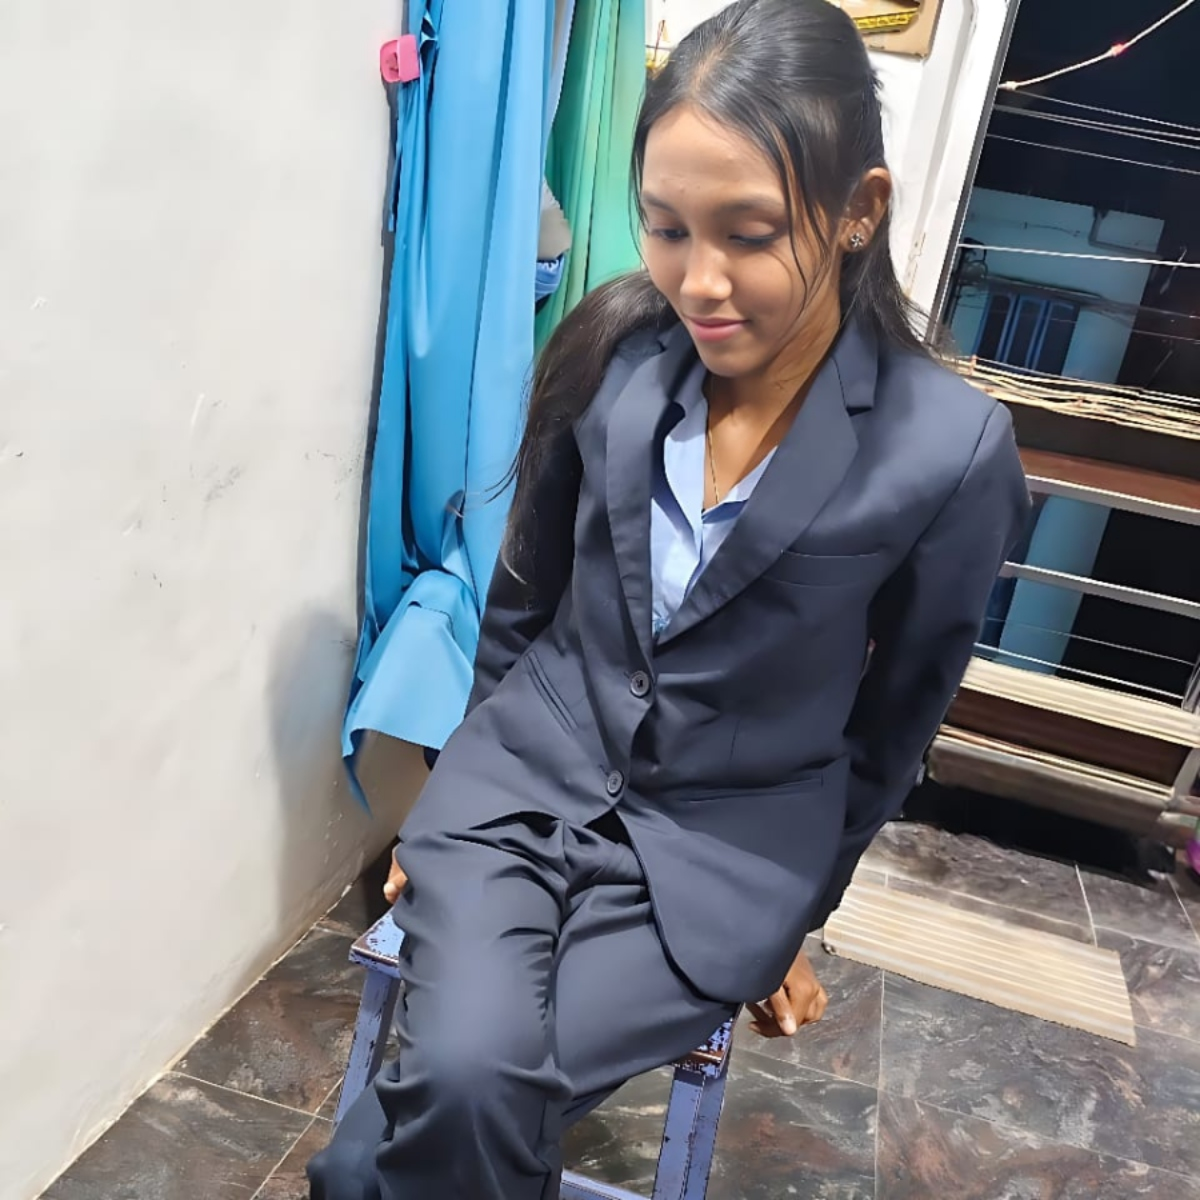
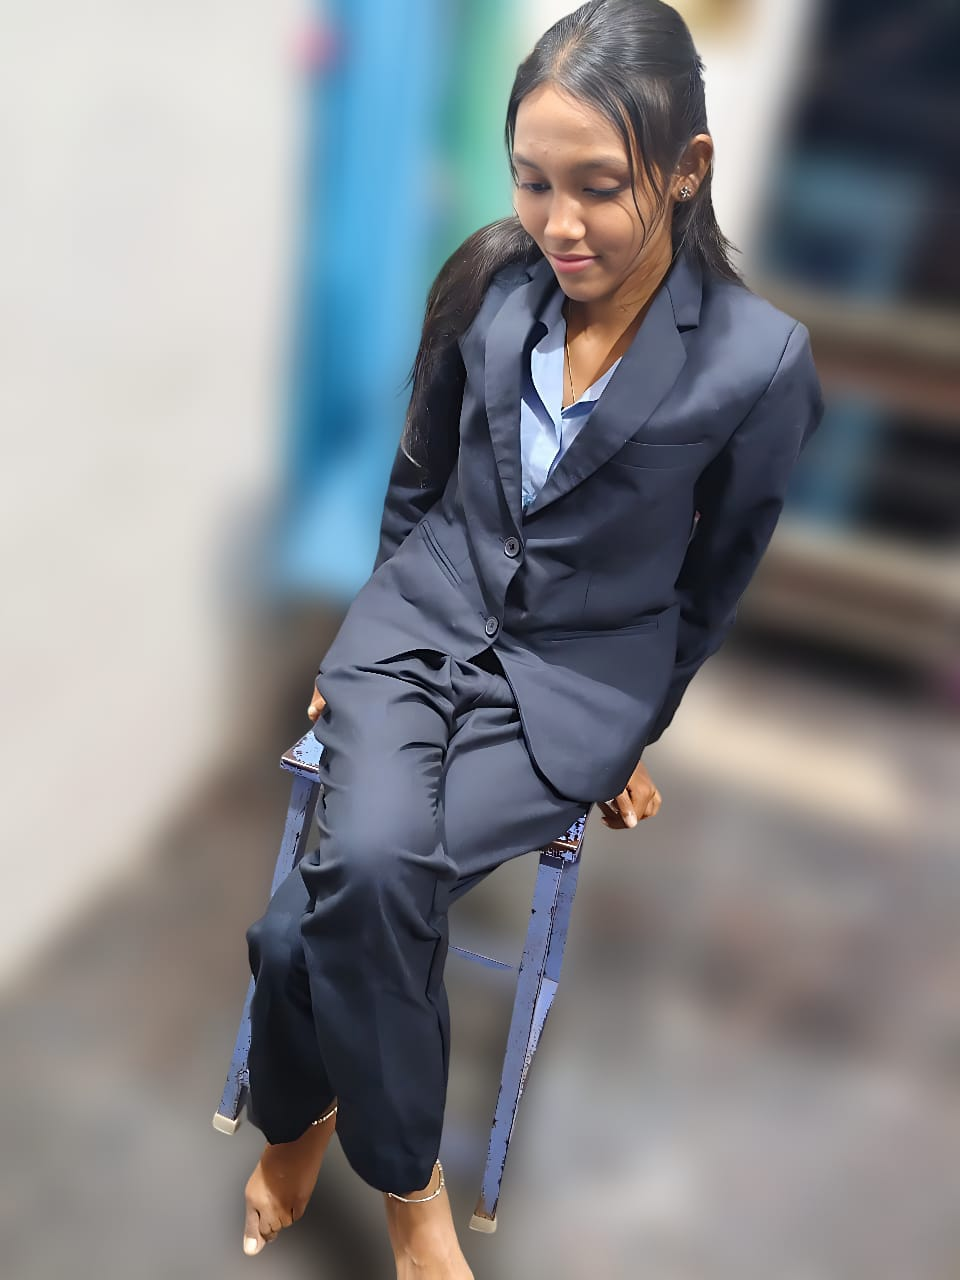
profile changes

diff --git a/src/components/Hero.tsx b/src/components/Hero.tsx
@@ -28,7 +28,12 @@ const Typing = ({ texts = roles, speed = 120, pause = 1500 }: { texts?: string[]
     return () => clearTimeout(timer);
   }, [display, forward, index, pause, speed, texts]);
 
-  return <span className="text-gradient font-semibold">{display}<span className="animate-pulse">|</span></span>;
+  return (
+    <span className="text-gradient font-semibold">
+      {display}
+      <span className="animate-pulse">|</span>
+    </span>
+  );
 };
 
 const Hero = () => {
@@ -46,11 +51,14 @@ const Hero = () => {
           </p>
 
           <h1 className="text-4xl sm:text-5xl md:text-6xl font-bold mb-4">
-            Hi, I’m <span className="text-gradient bg-clip-text text-transparent bg-gradient-to-r from-blue-500 via-cyan-400 to-purple-500">Mukhashree</span>
+            Hi, I’m{' '}
+            <span className="text-gradient bg-clip-text text-transparent bg-gradient-to-r from-blue-500 via-cyan-400 to-purple-500">
+              Mukhashree
+            </span>
           </h1>
 
-          <p className="text-lg sm:text-xl text-gray-700 dark:text-gray-300 mb-6">
-            Focused on delivering high-quality web solutions, automating workflows, and designing seamless user experiences, while pursuing my interest in the Japanese language and culture.
+          <p className="text-lg sm:text-xl text-gray-700 dark:text-gray-300 mb-6 leading-relaxed">
+            Focused on delivering high-quality web solutions, automating workflows, and designing seamless user experiences — while exploring the beauty of the Japanese language and culture.
           </p>
 
           <div className="mb-6 text-xl">
@@ -58,14 +66,26 @@ const Hero = () => {
           </div>
 
           <div className="flex flex-wrap gap-3 justify-center md:justify-start">
-            <a href="#projects" className="px-6 py-3 bg-blue-600 text-white rounded-lg font-medium hover:bg-cyan-600 transition-colors">View Projects</a>
-            <a href="/assets/resume.pdf" target="_blank" rel="noreferrer" className="px-6 py-3 border border-blue-600 text-blue-600 rounded-lg font-medium hover:bg-blue-50 dark:hover:bg-gray-800 transition">Download Resume</a>
+            <a
+              href="#projects"
+              className="px-6 py-3 bg-blue-600 text-white rounded-lg font-medium hover:bg-cyan-600 transition-colors"
+            >
+              View Projects
+            </a>
+            <a
+              href="/assets/resume.pdf"
+              target="_blank"
+              rel="noreferrer"
+              className="px-6 py-3 border border-blue-600 text-blue-600 rounded-lg font-medium hover:bg-blue-50 dark:hover:bg-gray-800 transition"
+            >
+              Download Resume
+            </a>
           </div>
         </div>
 
         {/* Right Hexagon Photo */}
         <div className="order-1 md:order-2 flex-shrink-0 relative">
-          <div className="relative w-72 h-72 md:w-80 md:h-80 mx-auto group">
+          <div className="relative w-64 h-64 sm:w-72 sm:h-72 md:w-80 md:h-80 mx-auto group">
 
             {/* Hexagon Glow */}
             <div
@@ -89,18 +109,22 @@ const Hero = () => {
             {/* Hexagon Photo */}
             <div
               className="absolute inset-0 overflow-hidden rounded-3xl transform transition duration-500 group-hover:scale-105 group-hover:shadow-2xl group-hover:rotate-1"
-              style={{ clipPath: 'polygon(50% 0%, 93% 25%, 93% 75%, 50% 100%, 7% 75%, 7% 25%)' }}
+              style={{
+                clipPath: 'polygon(50% 0%, 93% 25%, 93% 75%, 50% 100%, 7% 75%, 7% 25%)',
+              }}
             >
               <img
                 src="/assets/profile.jpg"
                 alt="Mukhashree"
-                className="w-full h-full object-cover object-center"
+                className="w-full h-full object-cover transition-transform duration-700 ease-out group-hover:scale-105"
+                style={{
+                  objectPosition: 'center 18%', // moves focus slightly up for face visibility
+                  transform: 'scale(1.12)', // zooms in just enough to fill the hexagon
+                }}
               />
             </div>
-
           </div>
         </div>
-
       </div>
 
       <style>
@@ -123,6 +147,13 @@ const Hero = () => {
           }
           .quote-hover:hover {
             animation: bounce 0.6s ease-in-out;
+          }
+
+          @media (max-width: 640px) {
+            img {
+              object-position: center 20% !important; /* adjusts image focus for mobile */
+              transform: scale(1.08) !important;
+            }
           }
         `}
       </style>
